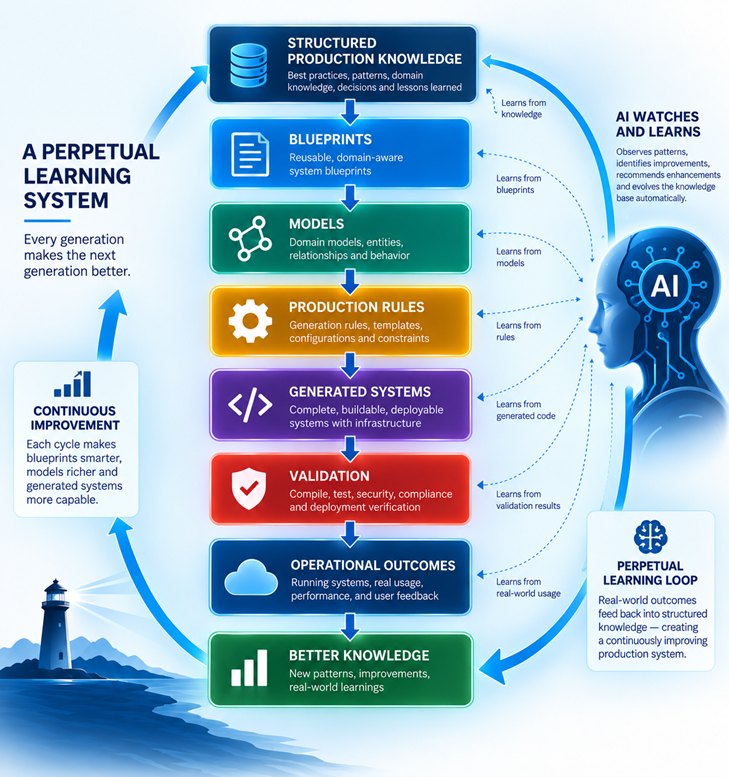
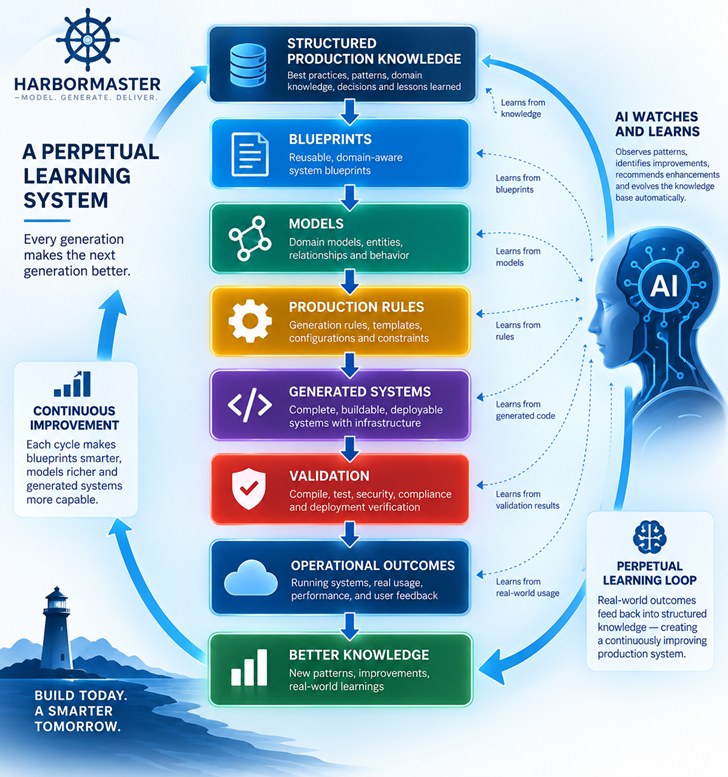
formatting for release

diff --git a/README.md b/README.md
@@ -26,18 +26,18 @@ Harbormaster was preconceived based on a simple assumptions:
 
 
 ### Evidence
-[Taxonomy](./evidence/taxonomy/README.md)
-[History](./evidence/history/README.md)
-[Measurement Framework](./evidence/measurements/README.md)
-[Generated Systems](./evidence/generated-systems/README.md)
+[Taxonomy - Terms and Statements](./evidence/taxonomy/README.md)  
+[History](./evidence/history/README.md)  
+[Measurement Framework](./evidence/measurements/README.md)  
+[Generated Systems](./evidence/generated-systems/README.md)  
 
 ### Targets
 
-[Enterprise](./enterprise/README.md)
-[Public Cloud Provider](./cloud-provider/README.md)
-[GSI](./gsi/README.md)
-[GSI with Cloud](./hybrid/README.md)
-[Managed Service Provider](./msp/README.md)
+[Enterprise](./enterprise/README.md)  
+[Public Cloud Provider](./cloud-provider/README.md)  
+[GSI](./gsi/README.md)  
+[GSI with Cloud](./hybrid/README.md)  
+[Managed Service Provider](./msp/README.md)  
 
 # Audience
 
